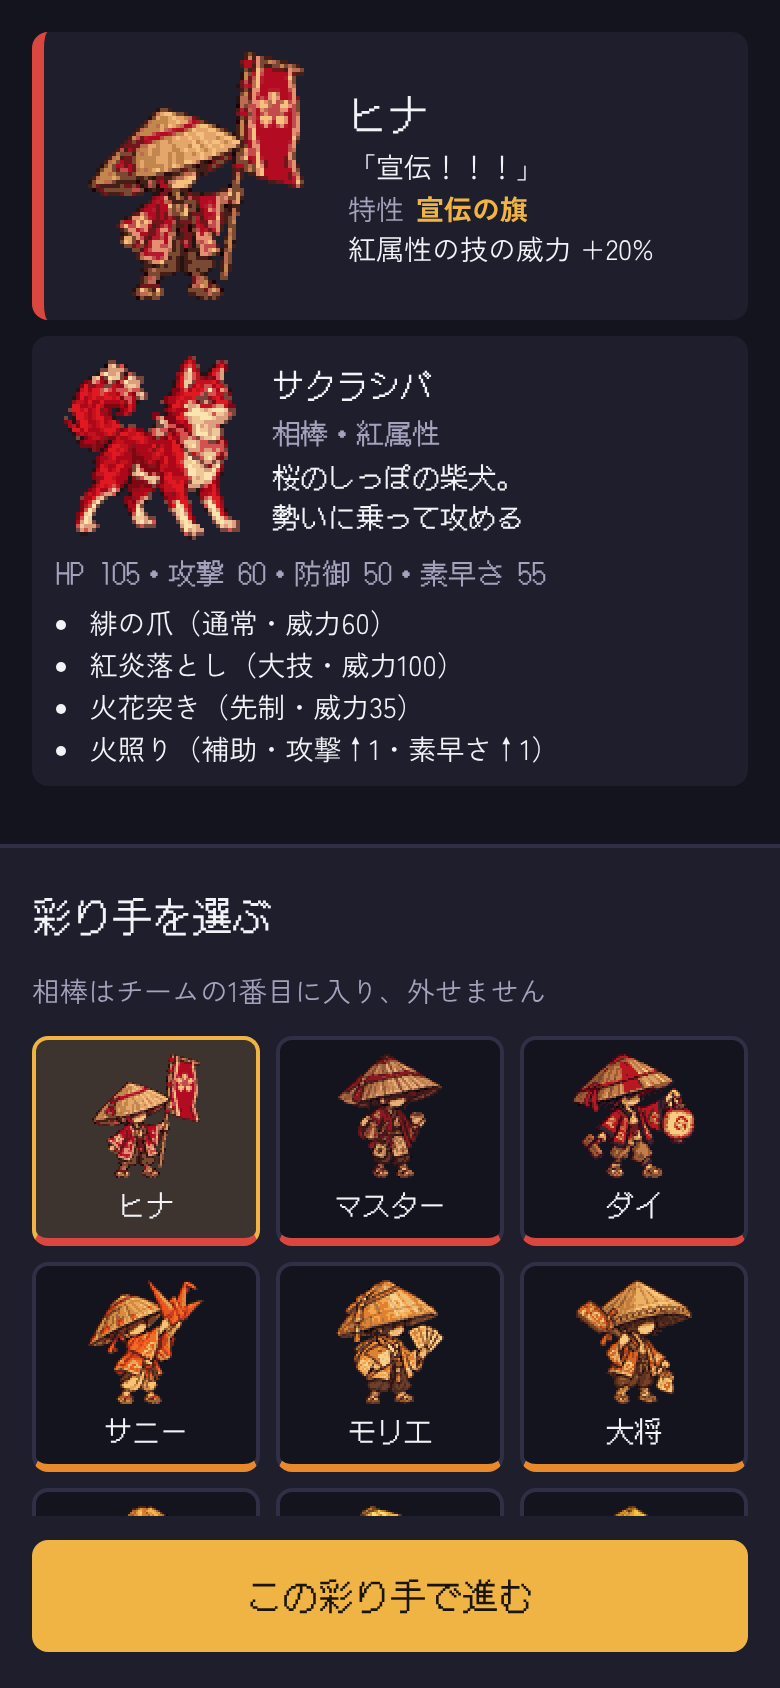
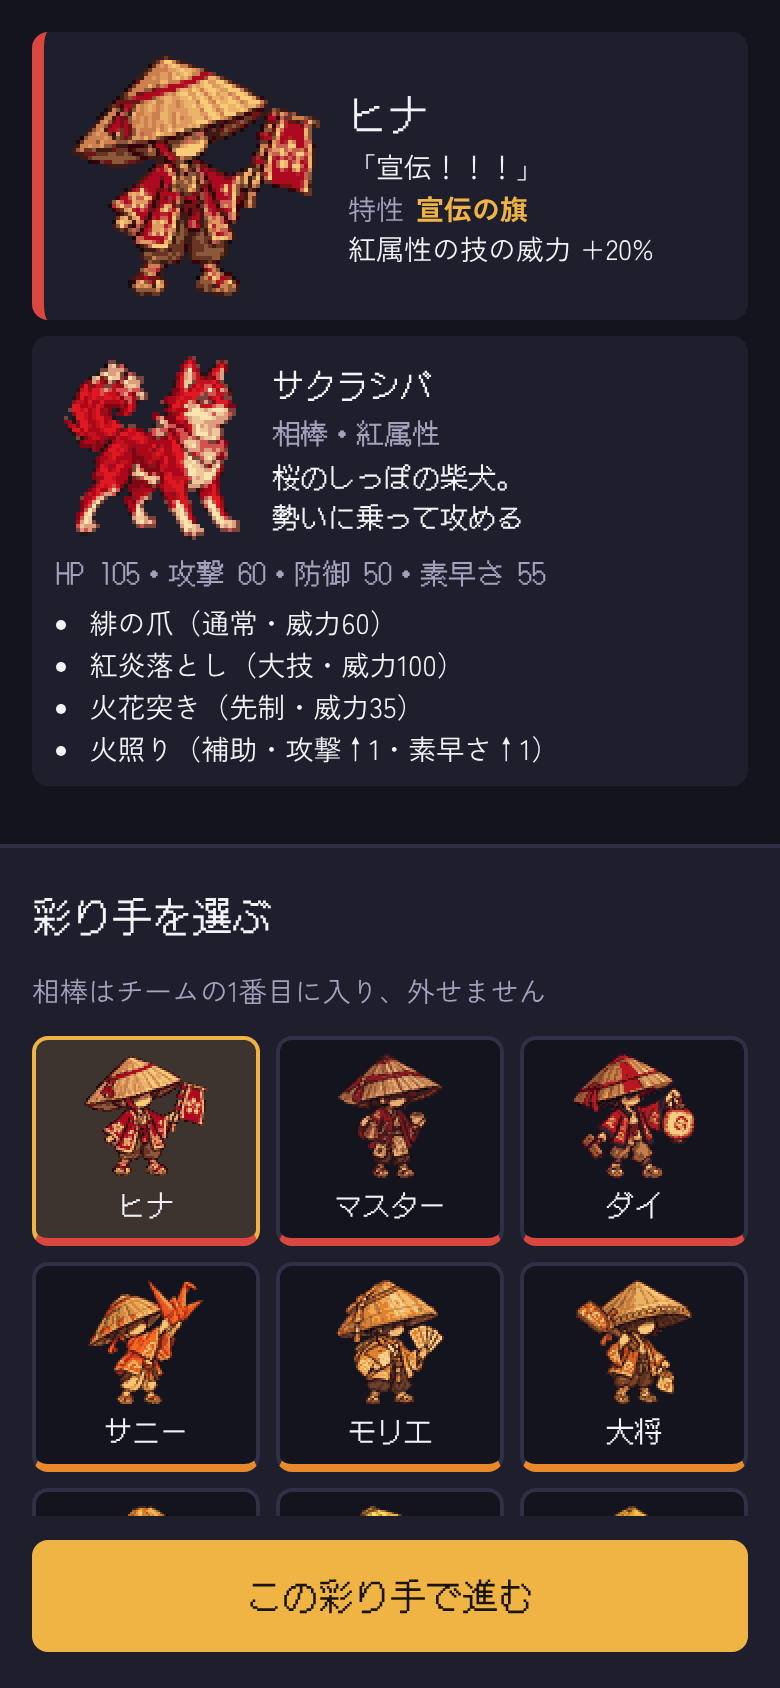
ヒナの絵を描き直し、ほかの彩り手と同じ大きさにする（M8）
のぼり旗が笠より高く伸びていて、64×64 に縮めると人物がほかの彩り手より
一回り小さくなっていた。旗だけを短い竿で胸の高さに持つ形に描き直した。
ヒナが写っている itch.io のカバー画像と1枚目のスクリーンショットも
作り直し、カバーは旗が相棒に重ならないように少し間をあけた。

Claude-Session: https://claude.ai/code/session_01CYAG7V5rLDfW9uiwpNWot8

Changed region(s): [[0.0923, 0.0308, 0.4308, 0.1848], [0.0923, 0.6161, 0.2769, 0.7085]]

diff --git a/docs/itch/cover.html b/docs/itch/cover.html
@@ -27,7 +27,7 @@
     text-shadow: 0 2px 0 #0008, 0 0 24px #0006;
   }
   .title p { margin: 14px 0 0; font-size: 19px; font-weight: 700; letter-spacing: 0.08em; color: #e9e4d6; }
-  .row { position: absolute; left: 0; right: 0; bottom: 52px; display: flex; justify-content: center; gap: 6px; }
+  .row { position: absolute; left: 0; right: 0; bottom: 52px; display: flex; justify-content: center; gap: 0; }
   /* ドット絵は2倍（整数倍）で、後ろに属性の色をうすく敷く（ゲームのバトル画面と同じ） */
   .sp {
     width: 100px; height: 100px; display: grid; place-items: center; border-radius: 50%;
@@ -36,11 +36,11 @@
   .sp img { display: block; image-rendering: pixelated; }
   /* 彩り手（64×64 を2倍）と、その相棒（48×48 を2倍）を並べる。足もとをそろえ、後ろに属性の色をうすく敷く */
   .pair {
-    display: flex; align-items: flex-end; width: 200px; height: 136px; padding-bottom: 4px;
+    display: flex; align-items: flex-end; width: 208px; height: 136px; padding-bottom: 4px;
     background: radial-gradient(closest-side at 50% 62%, color-mix(in srgb, var(--c) 48%, transparent) 0%, transparent 100%);
   }
   .pair img { display: block; image-rendering: pixelated; }
-  .pair .aibo { margin-left: -24px; margin-bottom: -2px; }
+  .pair .aibo { margin-left: -16px; margin-bottom: -2px; }
   .tag { position: absolute; left: 0; right: 0; bottom: 22px; text-align: center; font-family: 'DotGothic16', sans-serif; font-size: 16px; font-weight: 400; color: #c9c6d6; letter-spacing: 0.06em; }
   .tag b { color: #f0b445; font-weight: 400; }
 </style>

diff --git a/docs/art.md b/docs/art.md
@@ -258,7 +258,7 @@ shadow. {雰囲気} Original design that does not resemble any existing game, an
 | ID | あだ名 | 生成のジョブID | 備考 |
 | --- | --- | --- | --- |
 | kuro | クロ | 971791f7-253e-4ab3-9a62-2b053d0f059e | 絵柄の試作 |
-| hina | ヒナ | ce2fb3c5-7484-4c33-a7ce-b5795b2f39d8 | 絵柄の試作 |
+| hina | ヒナ | f84b345f-9c39-4a20-bc16-2edf06981f27 | 絵柄の試作。旗を短く描き直した（下） |
 | master | マスター | 51a33a08-32de-44b1-8aed-cb24e3404b16 | 絵柄の試作 |
 | dai | ダイ | afbd469b-342d-4775-b438-c7b915c90a68 | |
 | sunny | サニー | 96e637b3-7028-452b-9701-15555f535349 | |
@@ -277,7 +277,8 @@ shadow. {雰囲気} Original design that does not resemble any existing game, an
 | tatsumichi | タツミチ | 0b640d3c-90f3-4c12-b507-ed57a4265777 | |
 | sou | ソウ | eb7c96aa-070a-461e-80c0-93fa3d3c4895 | |
 
-- まず3人（クロ・ヒナ・マスター）で絵柄を決め、残りの16人を同じ指示の形で描いた。どれも1回目の生成を採用した（描き直しはない）
+- まず3人（クロ・ヒナ・マスター）で絵柄を決め、残りの16人を同じ指示の形で描いた。どれも1回目の生成を採用した
+- ヒナは、はじめの絵（ce2fb3c5-7484-4c33-a7ce-b5795b2f39d8）ののぼり旗が笠より高く伸びていて、長い辺を62ピクセルに縮めると、人物がほかの彩り手より一回り小さくなった。はじめの絵を参考画像にして、旗だけを「短い竿で胸の高さに持ち、旗の上端が笠より下にくる」形に描き直した（指示の `{持ち物}` の代わりに「change only the banner: the nobori banner flag is now SHORT and held in one hand at chest height, on a short bamboo pole, and the top of the flag stays clearly BELOW the top of the hat」と書いた）。旗を肩にかついで後ろに倒した案（a18caf41-8f97-489c-b420-1523ca98ac5a）は使っていない
 - 指示は次の文で、`{羽織}` に羽織の色と柄、`{持ち物}` に4.6 の表の持ち物、`{色}` にいちばん多く使う色を入れた。残りの16人では、64×64 でも持ち物が読めるように「The held items are drawn large and clear so they read at small size.」を足し、避けるものに「sparkles and thin wisps」を足した
   - `Pixel art game sprite of a single small chibi human traveler, an 'Irodorite' (a person who travels with color spirits) from a Japanese-style (wafu) fantasy world where colors are slowly fading. Match the art style, outline weight, shading and palette feel of the reference images, which are finished sprites from the same game, but draw only the person described here. The traveler wears a wide conical straw travel hat (kasa) pulled low so the face is mostly shaded and simple (no detailed facial features, gender-neutral), and a short {羽織} haori jacket over plain travel clothes and straw sandals. Held items: {持ち物}. Main accent color: {色}. Facing right in a three-quarter view, full body, standing, centered, filling about 85% of a square canvas, chibi proportions (big hat, small body). Bold, clearly readable silhouette that still reads when shrunk to 64x64 pixels; chunky pixels, limited palette of about 16 colors, dark 1-pixel outline, flat cel shading, no blur, no gradients; avoid tiny floating particles. Plain solid white background, no ground shadow, no text, no letters, no border. Original design that does not resemble any existing game, anime, or mascot character.`
 - 組み込みの手順はキャラと同じ（白い背景を抜き、16色に減らす）で、大きさだけ変えた。長い辺を62ピクセルに縮めて、64×64 の真ん中に置き、`src/assets/irodorite/<彩り手のID>.png` に保存する
